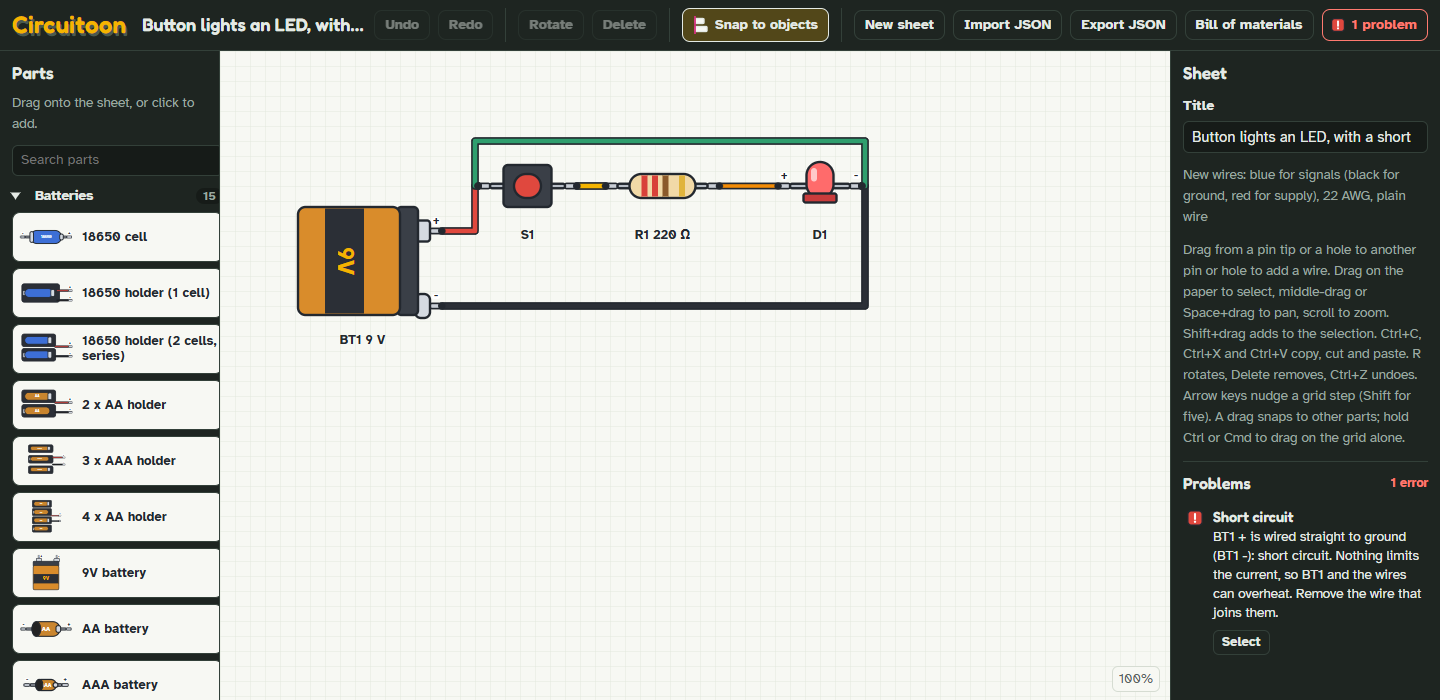
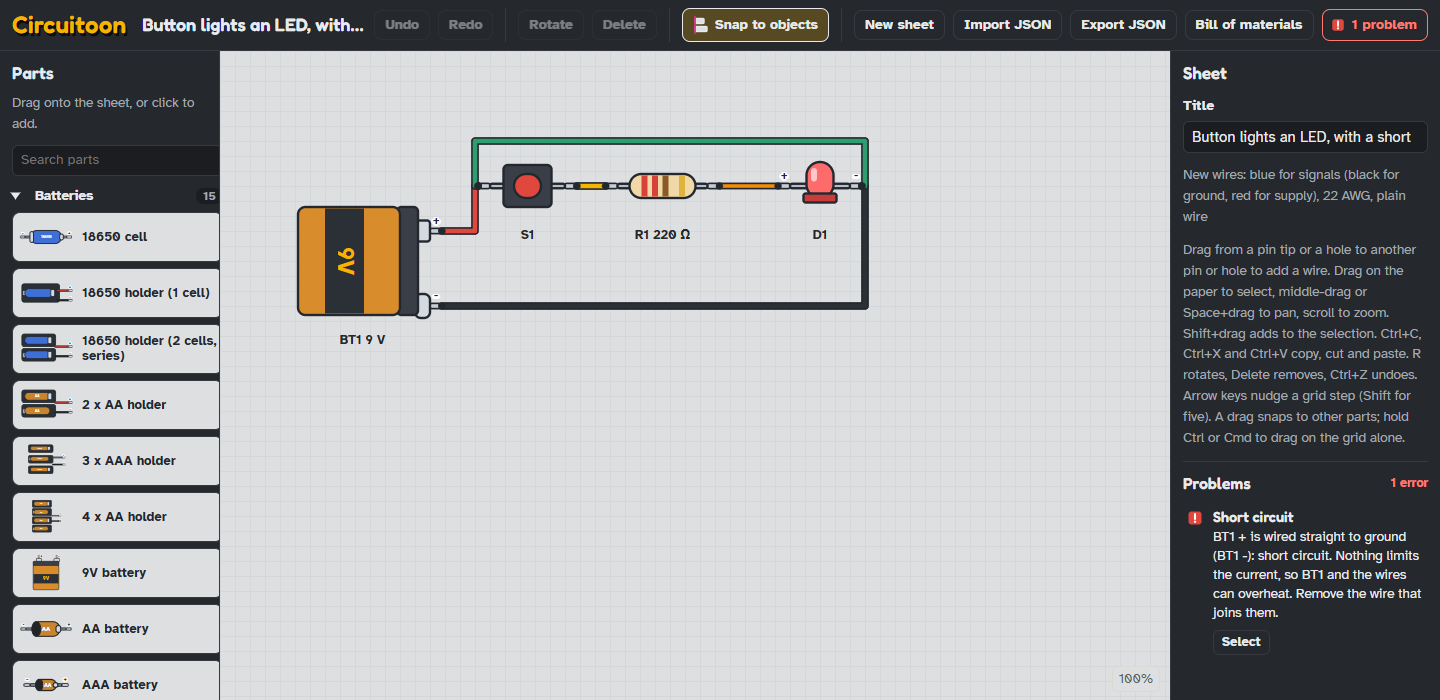
Dark mode: Graphite palette
Neutral greys with no green tint, so the yellow is the only colour in the chrome; the drawing paper
is dimmed (#DDDFE0) rather than dark, so parts keep their light-mode colours without the glare. The
diagram sticker takes the card edge in dark mode, where the ink edge vanished. Light mode unchanged.
The brand build draws the dark banner and hero on the same paper (and now outlines multi-line notes),
and the dark editor capture is re-shot.

diff --git a/src/styles.css b/src/styles.css
@@ -19,16 +19,20 @@
   color-scheme: light;
 }
 @media (prefers-color-scheme: dark) {
+  /* Graphite: neutral greys with no tint, so the yellow is the only colour in the chrome. The paper
+     is dimmed rather than dark, so every drawing keeps its light-mode colours without the glare. */
   :root {
-    --bg: #161B18;
-    --panel: #1E2521;
-    --text: #E4EAE5;
-    --muted: #9CA8A0;
-    --rule: #334039;
+    --bg: #1B1D20;
+    --panel: #25282C;
+    --text: #E8EAED;
+    --muted: #A3A9B0;
+    --rule: #363A40;
+    --paper: #DDDFE0;
+    --grid: #CDD0D2;
     --focus: #8AB0FF;
-    --shadow: #4A5A50;
-    --error: #FF7A70;
-    --card-edge: #9AA79F;
+    --shadow: #0C0D0F;
+    --error: #FF7A70; /* 6.6:1 on --bg, 5.8:1 on --panel */
+    --card-edge: #747B84; /* 3.9:1 on --bg, 3.5:1 on --panel */
     color-scheme: dark;
   }
 }
@@ -87,6 +91,8 @@ h1 { font: 600 clamp(34px, 5vw, 54px)/1.05 "Fredoka", system-ui, sans-serif; mar
   overflow: hidden;
 }
 .sticker figcaption { padding: 10px 14px 12px; font-size: 14px; color: #56615B; border-top: 1.5px solid #D6DCD2; }
+/* On the dark page the ink edge would vanish: the sticker takes the card edge instead. */
+@media (prefers-color-scheme: dark) { .sticker { border-color: var(--card-edge); } }
 .sheet { display: block; width: 100%; height: auto; font-family: "Atkinson Hyperlegible", system-ui, sans-serif; }
 
 .parts-library { display: grid; gap: 22px; padding-block: 8px 56px; }

diff --git a/index.html b/index.html
@@ -5,7 +5,7 @@
     <meta name="viewport" content="width=device-width, initial-scale=1.0" />
     <meta name="description" content="Circuit diagrams AI agents can design, check and hand you." />
     <meta name="theme-color" content="#E9EEE6" media="(prefers-color-scheme: light)" />
-    <meta name="theme-color" content="#161B18" media="(prefers-color-scheme: dark)" />
+    <meta name="theme-color" content="#1B1D20" media="(prefers-color-scheme: dark)" />
     <link rel="icon" href="/circuitoon/favicon.ico" sizes="16x16 32x32 48x48" />
     <link rel="icon" href="/circuitoon/favicon.svg" type="image/svg+xml" />
     <link rel="apple-touch-icon" href="/circuitoon/apple-touch-icon.png" />

diff --git a/docs/brand/README.md b/docs/brand/README.md
@@ -28,17 +28,24 @@ Sources in `src/`: `motif.circuitoon.json` is the banner and card sheet (9 V bat
 
 ## Colours
 
-| Token | Light | Dark |
+Dark mode is **Graphite**: neutral greys with no tint, so the yellow is the only colour in the chrome, and the drawing paper dimmed rather than dark, so every part keeps its light-mode colours without the glare.
+
+| Token | Light | Dark (Graphite) |
 | --- | --- | --- |
 | yellow (wordmark, chip) | `#F4B400` | `#F4B400` |
-| ink (outlines, text) | `#23282F` | `#23282F` outlines, `#E4EAE5` text |
+| ink (outlines) | `#23282F` | `#23282F` |
 | green (boards) | `#2F9E6E` | `#2F9E6E` |
-| background | `#E9EEE6` | `#161B18` |
-| paper (sheets) | `#F7F8F3` | |
-| hard shadow | `#23282F` | `#4A5A50` |
-| edge on dark | | `#9AA79F` |
+| background | `#E9EEE6` | `#1B1D20` |
+| panel | `#FBFCF9` | `#25282C` |
+| text | `#23282F` | `#E8EAED` (14:1 on the background) |
+| muted text | `#56615B` | `#A3A9B0` (7.1:1) |
+| rules | `#CCD5CC` | `#363A40` |
+| card edge | `#23282F` | `#747B84` (3.9:1) |
+| hard shadow | `#23282F` | `#0C0D0F` |
+| paper (sheets) | `#F7F8F3` | `#DDDFE0` |
+| sheet grid | `#E1E6DB` | `#CDD0D2` |
 
-The app's full token set is at the top of `src/styles.css`.
+The app's full token set is at the top of `src/styles.css`. The CLI's own `render --dark` still uses its separate dark sheet theme (`DARK_THEME` in `src/render/theme.ts`); the README's dark hero is drawn on the Graphite paper instead.
 
 ## Fonts
 
